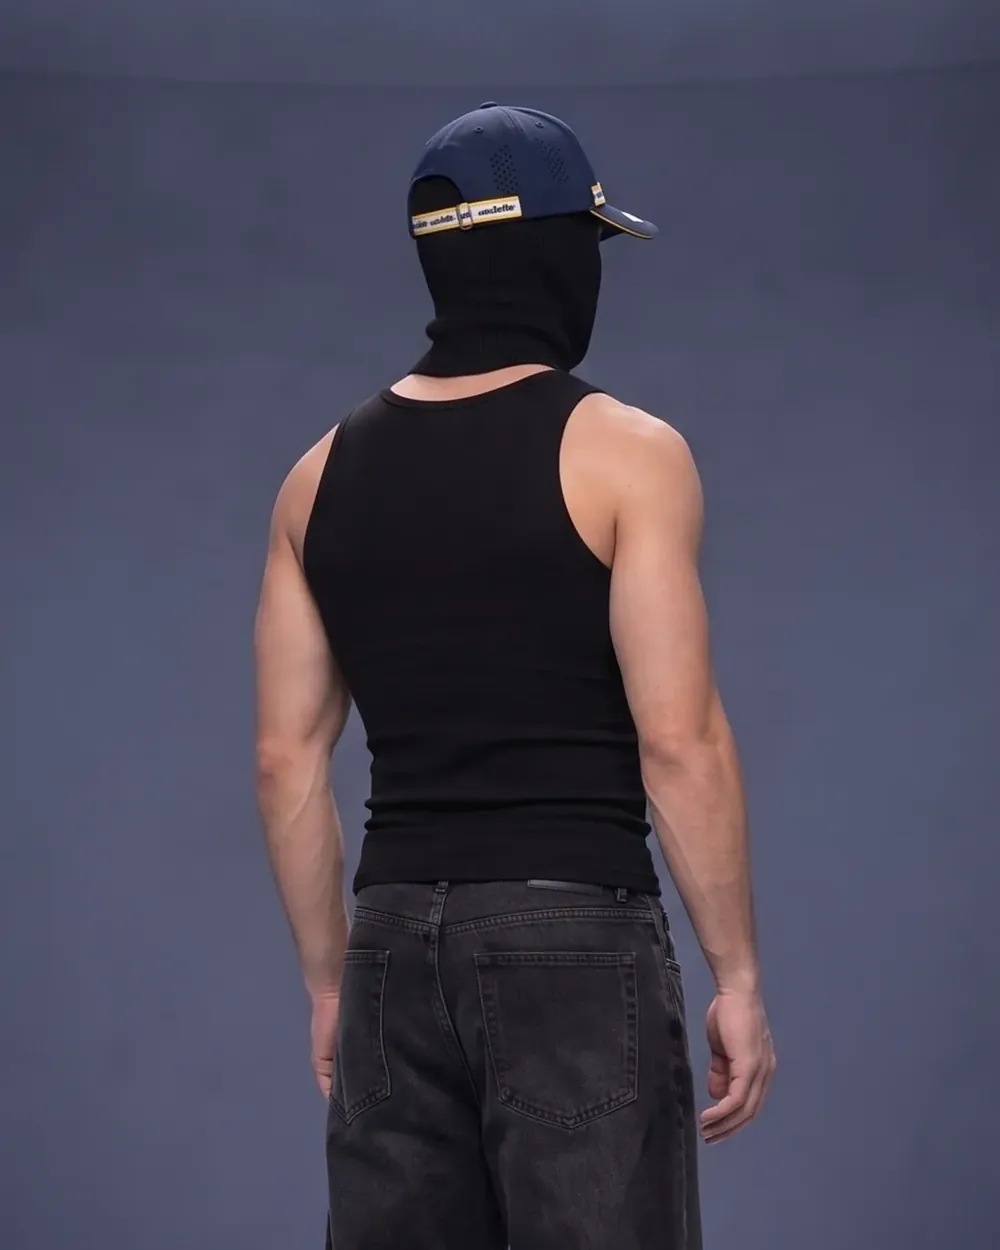
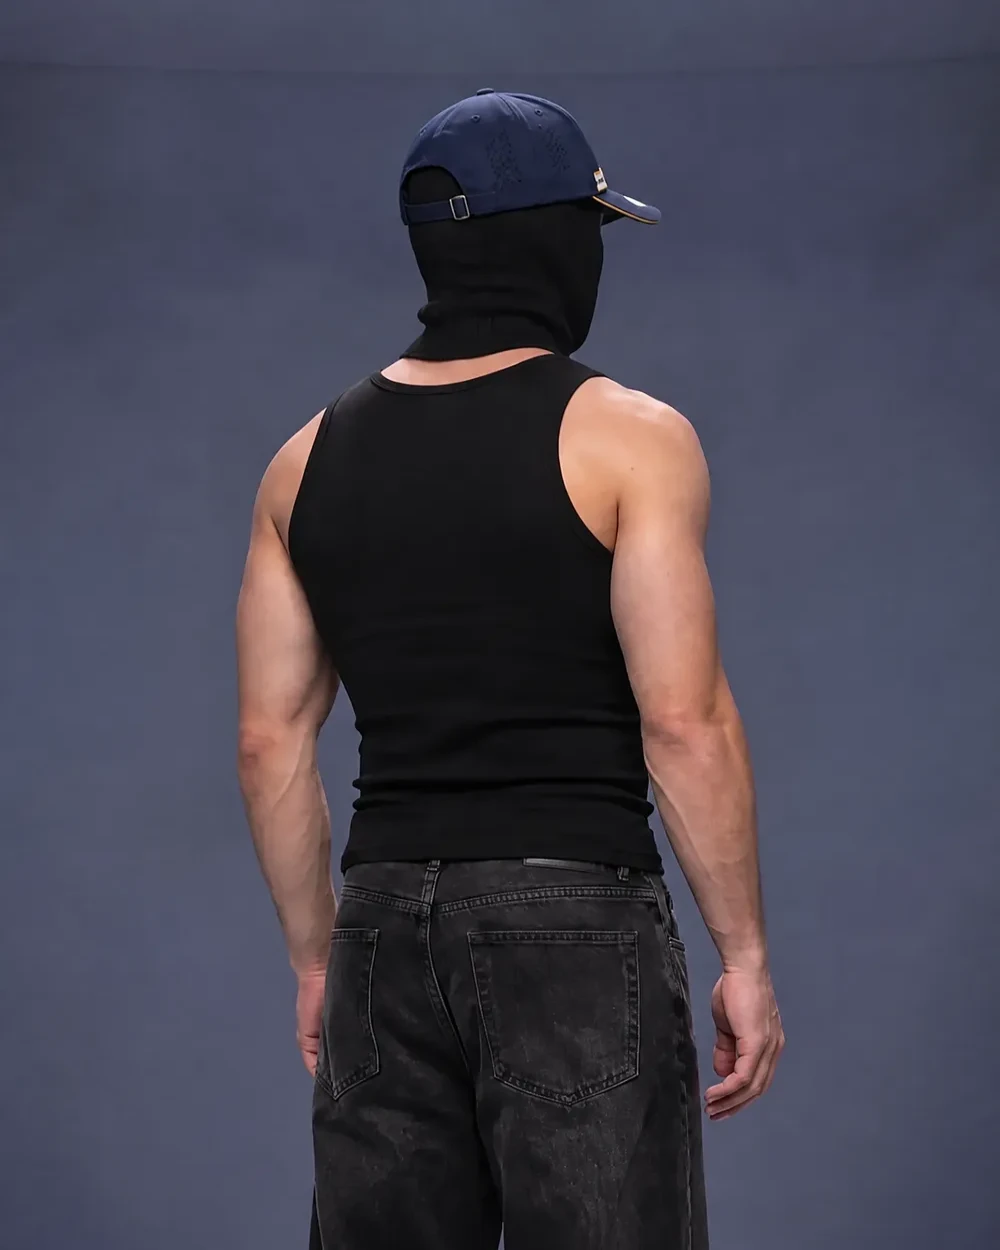
Cabine Casquette Heart Buckle : arrière refait comme la vraie casquette (marine uni, sangle de réglage et boucle métal)
Claude-Session: https://claude.ai/code/session_01JHKczBwFKYFofkfxCnLE6j

diff --git a/src/components/collection/CabineViewer.tsx b/src/components/collection/CabineViewer.tsx
@@ -5,7 +5,7 @@ import { useZoom } from "@/lib/use-zoom";
 
 export const CABINE_FRAMES = 8;
 /** Bump when the fitting-room photos change: busts copies cached by phones. */
-const CABINE_VERSION = "20261015a";
+const CABINE_VERSION = "20261015b";
 /** Degrees turned per pixel dragged: one viewport width is half a turn. */
 const DEG_PER_PX = 0.45;
 const FRICTION = 0.92;
